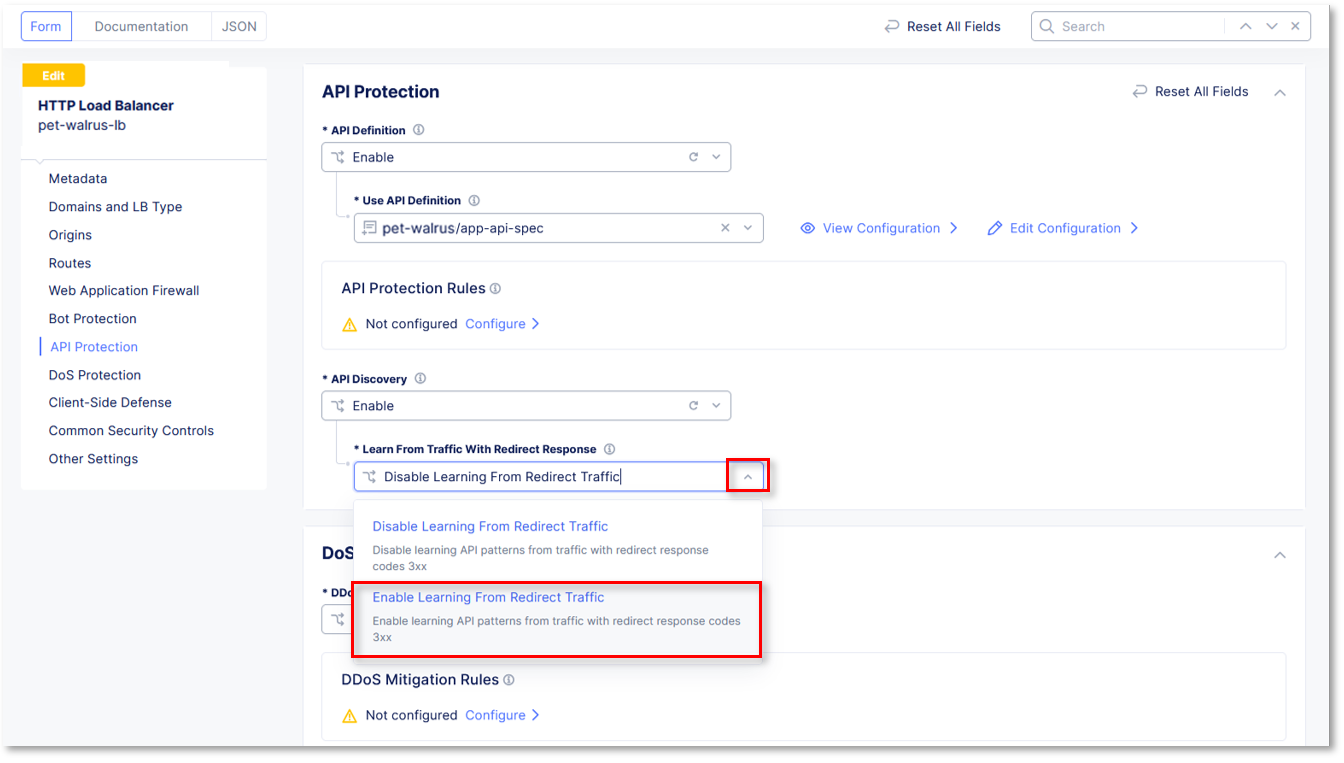
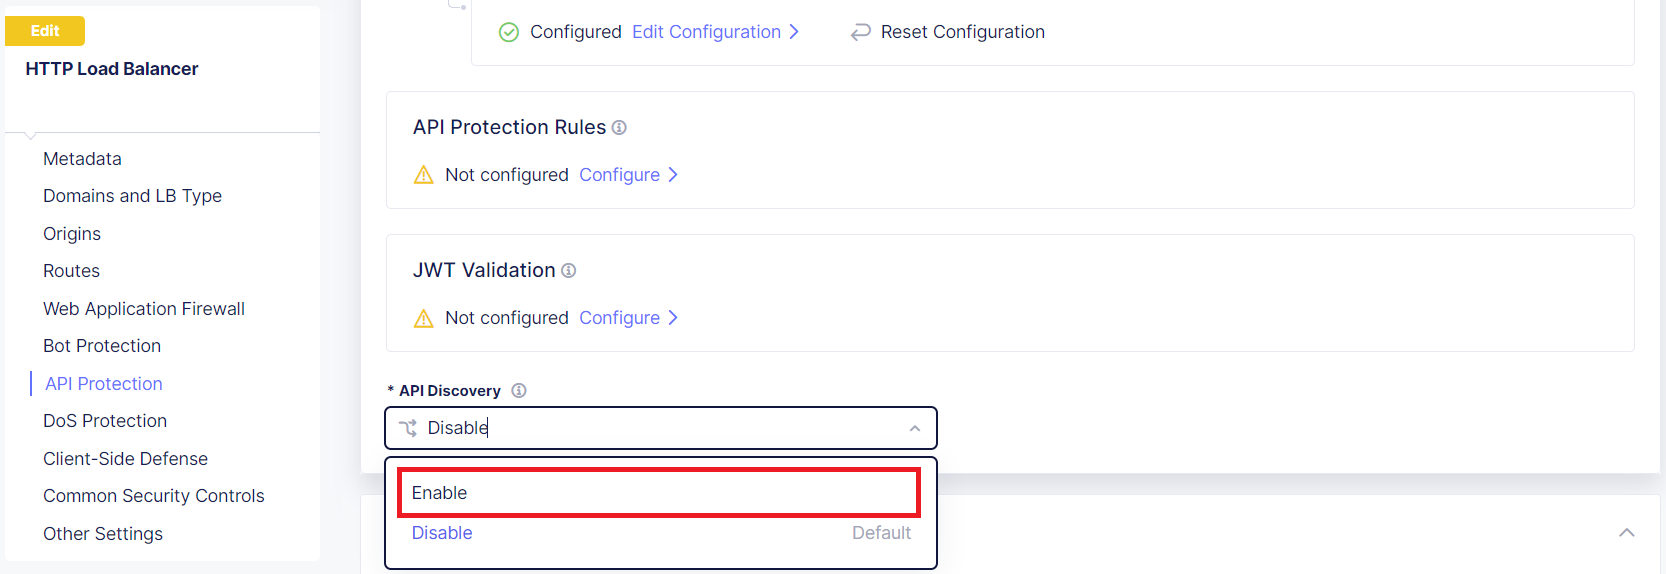
Class 2 | added definition validation.

diff --git a/docs/class4/lab1.rst b/docs/class4/lab1.rst
@@ -247,22 +247,23 @@ previously built Load Balancer object delivering the targeted application/API.
 
    |lab1-task4-004|
 
-#. In the updated **Use API Definition** section, click the drop-down arrow and select the
+#. In the second **API Definition** section, click the drop-down arrow and select the
    previously created API Definition **<namespace>/app-api-spec**.
 
    |lab1-task4-005|
 
-#. In the **API Protection** section, click the drop-down arrow next to **API Discovery**
-   and select **Enable**.
+#. Under **Validation**, select **All Endpoints** from drop-down then click on
+   **Edit Configuration**
 
    |lab1-task4-006|
 
-#. In the updated **API Discovery** section, click the drop-down arrow next to **Learn
-   from Traffic with Redirect Response** and then select **Enable Learning from Redirect
-   Traffic**.
+#. Within **All endpoints validation**, update **Request Validation Endforcement Type** to
+   **Block**. Click on **Apply** bottom right.
 
-   .. note::
-      *API Discovery will be explored within a demo following this lab*
+   |lab1-task4-006a|
+
+#. In the **API Protection** section, click the drop-down arrow next to **API Discovery**
+   and select **Enable**.
 
    |lab1-task4-007|
 
@@ -270,6 +271,24 @@ previously built Load Balancer object delivering the targeted application/API.
    at the bottom right of window.
 
    |lab1-task4-008|
+
+#. Using another browser tab, navigate to the the following URL to confirm
+   cat details.
+
+   **http://<namespace>.lab-sec.f5demos.com/api/CatLookup/GetByAge?age=5**
+
+   |lab1-task4-009|
+
+#. Using the same tab, update the URI parameter from **age=5** to **age=five**
+   and confirm the request has been blocked.
+
+   **http://<namespace>.lab-sec.f5demos.com/api/CatLookup/GetByAge?age=five**
+
+   |lab1-task4-010|
+
+   .. note::
+      *This request was blocked due to the uploaded swagger defining the
+      parameter type as "integer" for this endpoint.*
 
 **End of Lab 1:**  This concludes Lab 1, feel free to review and test the configuration.
 A brief presentation and demo will be shared prior to the beginning of Lab 2.
@@ -347,9 +366,15 @@ A brief presentation and demo will be shared prior to the beginning of Lab 2.
    :width: 800px
 .. |lab1-task4-006| image:: _static/lab1-task4-006.png
    :width: 800px
+.. |lab1-task4-006a| image:: _static/lab1-task4-006a.png
+   :width: 800px
 .. |lab1-task4-007| image:: _static/lab1-task4-007.png
    :width: 800px
 .. |lab1-task4-008| image:: _static/lab1-task4-008.png
    :width: 800px
+.. |lab1-task4-009| image:: _static/lab1-task4-009.png
+   :width: 400px
+.. |lab1-task4-010| image:: _static/lab1-task4-010.png
+   :width: 600px
 .. |labend| image:: _static/labend.png
    :width: 800px
